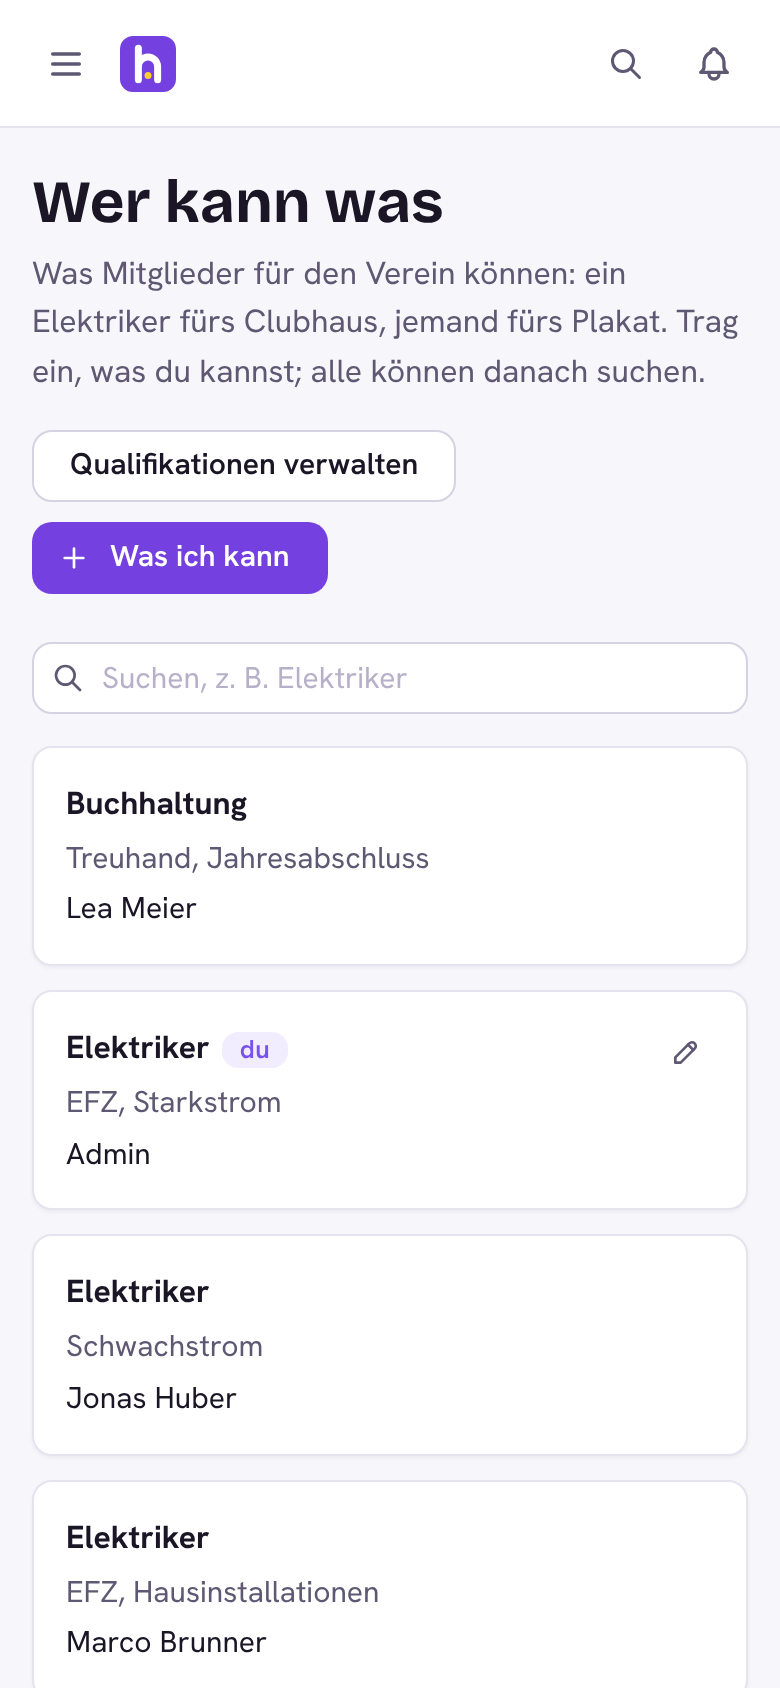
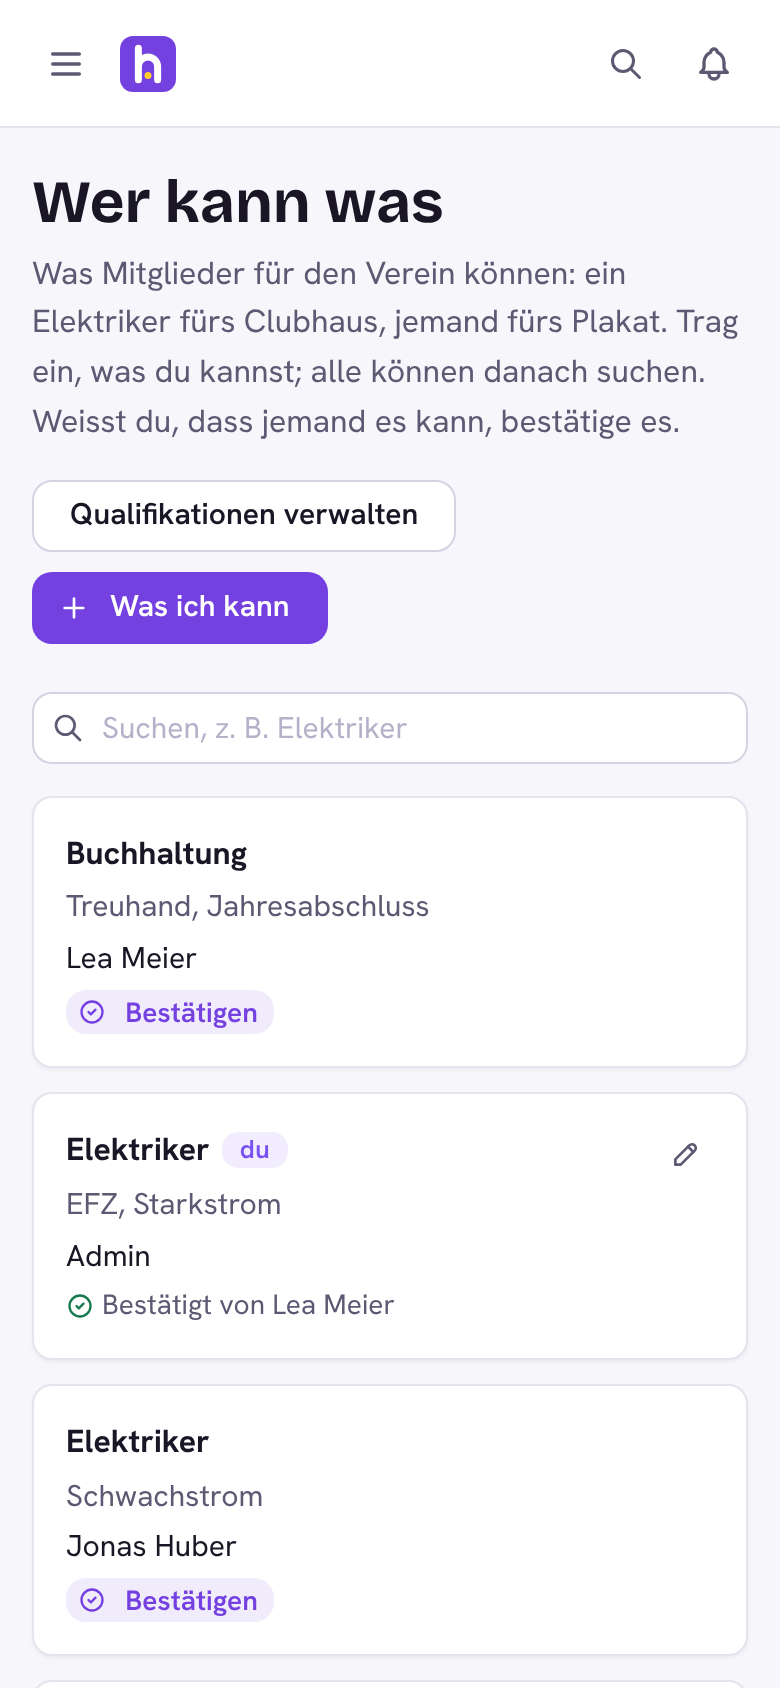
Other members confirm self-service qualifications
Bestätigen on Wer kann was: another member vouches for an entry, the
holder is notified, the card shows who confirmed it. Changing the note
clears it; the confirmer or a manager takes it back.

Claude-Session: https://claude.ai/code/session_01Mn3pymX81wmZPTtSsV7GuV

diff --git a/frontend/src/CanDoScreen.tsx b/frontend/src/CanDoScreen.tsx
@@ -2,16 +2,32 @@ import { useState, type FormEvent } from 'react'
 import { useQuery, useQueryClient } from '@tanstack/react-query'
 import { ActionIcon, Autocomplete, Badge, Button, Group, Paper, SimpleGrid, Stack, Text, TextInput, Textarea } from '@mantine/core'
 import { useDebouncedValue } from '@mantine/hooks'
-import { IconPencil, IconPlus, IconSearch, IconTools } from '@tabler/icons-react'
+import { IconCircleCheck, IconPencil, IconPlus, IconSearch, IconTools } from '@tabler/icons-react'
 import { EmptyState, ErrorBanner, Field, LoadingSpinner, Modal, PageHead, useAuth, useNav, useT, useToast } from '@hubra/plugin-sdk'
-import { addMine, deleteMine, listCanDo, listKinds, updateMine, type CanDo } from './api'
+import { addMine, confirmCanDo, deleteMine, listCanDo, listKinds, unconfirmCanDo, updateMine, type CanDo } from './api'
 
 const KEY = ['guides', 'canDo']
 
 /** Who in the club can do what: the self-service qualifications. */
 export function CanDoScreen() {
   const { t } = useT()
-  const { hasPermission } = useAuth()
+  const { hasPermission, currentUser } = useAuth()
+  const me = currentUser ? Number(currentUser.id) : null
+  const manager = hasPermission('guides.qualifications.manage')
+  const qc = useQueryClient()
+  const { notify } = useToast()
+  const [busyId, setBusyId] = useState<number | null>(null)
+  const vouch = async (c: CanDo, on: boolean) => {
+    setBusyId(c.id)
+    try {
+      await (on ? confirmCanDo(c.id) : unconfirmCanDo(c.id))
+      qc.invalidateQueries({ queryKey: ['guides'] })
+    } catch (err) {
+      notify('error', err instanceof Error ? err.message : String(err))
+    } finally {
+      setBusyId(null)
+    }
+  }
   const { go } = useNav()
   const [q, setQ] = useState('')
   const [search] = useDebouncedValue(q.trim(), 250)
@@ -25,7 +41,7 @@ export function CanDoScreen() {
         desc={t('qualifications.canDo.desc')}
         actions={
           <Group gap="xs">
-            {hasPermission('guides.qualifications.manage') && (
+            {manager && (
               <Button variant="default" onClick={() => go('/app/inventory/qualifications')}>
                 {t('qualifications.canDo.manage')}
               </Button>
@@ -76,6 +92,32 @@ export function CanDoScreen() {
                     </Text>
                   )}
                   <Text size="sm">{c.memberName}</Text>
+                  {c.confirmedBy ? (
+                    <Group gap={4} wrap="wrap">
+                      <IconCircleCheck size={14} color="var(--mantine-color-green-6)" style={{ flexShrink: 0 }} />
+                      <Text size="xs" c="dimmed">
+                        {t('qualifications.canDo.confirmedBy', { name: c.confirmedBy })}
+                      </Text>
+                      {(c.confirmedById === me || (manager && !c.mine)) && (
+                        <Button size="compact-xs" variant="subtle" color="gray" loading={busyId === c.id} onClick={() => vouch(c, false)}>
+                          {t('qualifications.canDo.unconfirm')}
+                        </Button>
+                      )}
+                    </Group>
+                  ) : (
+                    !c.mine && (
+                      <Button
+                        size="compact-xs"
+                        variant="light"
+                        leftSection={<IconCircleCheck size={14} />}
+                        loading={busyId === c.id}
+                        onClick={() => vouch(c, true)}
+                        style={{ alignSelf: 'flex-start' }}
+                      >
+                        {t('qualifications.canDo.confirm')}
+                      </Button>
+                    )
+                  )}
                 </Stack>
                 {c.mine && (
                   <ActionIcon variant="subtle" onClick={() => setEditing(c)} aria-label={t('qualifications.canDo.edit')}>

diff --git a/frontend/src/api.ts b/frontend/src/api.ts
@@ -50,6 +50,10 @@ export interface Qualification {
   expiresOn: string | null
   note: string | null
   state: QualificationState
+  /** Self-service: the member who vouched for it. */
+  confirmedBy: string | null
+  confirmedById: number | null
+  confirmedAt: string | null
 }
 
 export interface KindInput {
@@ -93,6 +97,9 @@ export interface CanDo {
   kindName: string
   note: string | null
   mine: boolean
+  confirmedBy: string | null
+  confirmedById: number | null
+  confirmedAt: string | null
 }
 
 export const listCanDo = (q: string) => apiFetch<CanDo[]>(`${Q}/directory?${new URLSearchParams({ q })}`)
@@ -101,3 +108,5 @@ export const addMine = (input: { kindId?: number; name?: string; note: string | 
 export const updateMine = (id: number, note: string | null) =>
   apiFetch<Qualification>(`${Q}/mine/${id}`, { method: 'PATCH', body: JSON.stringify({ note }) })
 export const deleteMine = (id: number) => apiFetch<void>(`${Q}/mine/${id}`, { method: 'DELETE' })
+export const confirmCanDo = (id: number) => apiFetch<Qualification>(`${Q}/${id}/confirm`, { method: 'POST' })
+export const unconfirmCanDo = (id: number) => apiFetch<Qualification>(`${Q}/${id}/confirm`, { method: 'DELETE' })

diff --git a/frontend/src/MyQualificationsCard.tsx b/frontend/src/MyQualificationsCard.tsx
@@ -39,7 +39,9 @@ export function MyQualificationsCard() {
             </Text>
             <Text fz="xs" c="dimmed" truncate>
               {q.selfService
-                ? q.note || t('qualifications.canDo.selfAdded')
+                ? [q.note || t('qualifications.canDo.selfAdded'), q.confirmedBy && t('qualifications.canDo.confirmedBy', { name: q.confirmedBy })]
+                    .filter(Boolean)
+                    .join(' · ')
                 : q.expiresOn
                   ? t('qualifications.until', { date: formatDate(q.expiresOn) })
                   : t('qualifications.noExpiry')}

diff --git a/hubra_guides/qualifications.py b/hubra_guides/qualifications.py
@@ -14,6 +14,8 @@ POST   /qualifications/mine           {kindId | name, note?} add what I can do
 PATCH  /qualifications/mine/<id>      {note}
 DELETE /qualifications/mine/<id>
 GET    /qualifications/directory      ?q=&kindId= who can do what (every member)
+POST   /qualifications/<id>/confirm   another member vouches for a self-service one
+DELETE /qualifications/<id>/confirm   that member, or a manager, takes it back
 
 Self-service kinds (``selfService``) are what members can do: "Elektriker",
 "Grafik". Members add and remove those on themselves, naming a new one adds
@@ -101,6 +103,17 @@ def _out(q: MemberQualification, kind: QualificationKind, name: str | None) -> d
         "expiresOn": q.expires_on.isoformat() if q.expires_on else None,
         "note": q.note,
         "state": state(q, kind, date.today()),
+        **_confirmed(q),
+    }
+
+
+def _confirmed(q: MemberQualification) -> dict:
+    """Who vouched for a self-service entry, and when."""
+    who = db.session.get(Member, q.confirmed_by) if q.confirmed_by else None
+    return {
+        "confirmedBy": who.name if who else None,
+        "confirmedById": q.confirmed_by if who else None,
+        "confirmedAt": q.confirmed_at.isoformat() if who and q.confirmed_at else None,
     }
 
 
@@ -484,9 +497,13 @@ def update_mine(qid: int):
     if err:
         return err
     try:
-        q.note = _note(request.get_json(silent=True) or {})
+        note = _note(request.get_json(silent=True) or {})
     except ValueError as exc:
         return _bad(exc)
+    if note != q.note:
+        # A confirmation vouches for what it said; a new claim needs a new one.
+        q.confirmed_by = q.confirmed_at = None
+    q.note = note
     q.updated_at = _now()
     db.session.commit()
     return jsonify(_out(q, kind, get_current_member().name))
@@ -544,10 +561,78 @@ def directory():
                 "kindName": k.name,
                 "note": q.note,
                 "mine": m.id == me.id,
+                **_confirmed(q),
             }
             for q, k, m in rows
         ]
     )
+
+
+def _self_entry(qid: int):
+    q = db.session.get(MemberQualification, qid)
+    kind = db.session.get(QualificationKind, q.kind_id) if q else None
+    if q is None or not kind.self_service:
+        return None, None, api_error("NOT_FOUND", "No such entry.", 404)
+    return q, kind, None
+
+
+@guides_bp.post("/qualifications/<int:qid>/confirm")
+@require_member
+def confirm(qid: int):
+    """Another member vouches that the holder can do it."""
+    me = get_current_member()
+    q, kind, err = _self_entry(qid)
+    if err:
+        return err
+    if q.member_id == me.id:
+        return api_error("FORBIDDEN", "Someone else has to confirm yours.", 403)
+    holder = db.session.get(Member, q.member_id)
+    if holder is None or holder.archived_at is not None:
+        return api_error("NOT_FOUND", "No such entry.", 404)
+    if q.confirmed_by and q.confirmed_by != me.id:
+        return api_error("DUPLICATE", "Someone has confirmed this already.", 409)
+    if q.confirmed_by is None:
+        from hubra.core.notifications.services import create_notification
+
+        q.confirmed_by, q.confirmed_at = me.id, _now()
+        log_audit(
+            me.id,
+            "guides.qualification.confirm",
+            "MemberQualification",
+            q.id,
+            f"{holder.name}: {kind.name}",
+        )
+        create_notification(
+            holder.id,
+            kind="info",
+            title=f"{me.name} confirmed: {kind.name}",
+            msg="",
+            link="/app/skills",
+        )
+        db.session.commit()
+    return jsonify(_out(q, kind, holder.name))
+
+
+@guides_bp.delete("/qualifications/<int:qid>/confirm")
+@require_member
+def unconfirm(qid: int):
+    """The member who confirmed it, or a manager, takes it back."""
+    from hubra.core.permissions import member_has_permission
+
+    me = get_current_member()
+    q, kind, err = _self_entry(qid)
+    if err:
+        return err
+    if q.confirmed_by != me.id and not member_has_permission(me, MANAGE):
+        return api_error("FORBIDDEN", "Only who confirmed it can take it back.", 403)
+    if q.confirmed_by is not None:
+        log_audit(
+            me.id, "guides.qualification.unconfirm", "MemberQualification", q.id, None
+        )
+    q.confirmed_by = q.confirmed_at = None
+    db.session.commit()
+    holder = db.session.get(Member, q.member_id)
+    return jsonify(_out(q, kind, holder.name if holder else None))
 
 
 # ── Reminders ────────────────────────────────────────────────────────────────

diff --git a/tests/test_qualifications.py b/tests/test_qualifications.py
@@ -314,3 +314,59 @@ def test_self_service_kinds_never_gate_an_item(client, db, club):
     # An item takes Laser: members may not start adding it themselves.
     resp = client.patch(f"{Q}/kinds/{laser['id']}", json={"selfService": True})
     assert resp.status_code == 400
+
+
+def test_another_member_confirms_a_self_service_entry(client, db, club):
+    from hubra.core.models.notification import Notification
+
+    managed = _kind(client)
+    _login(client, "max@test.ch")
+    entry = client.post(f"{Q}/mine", json={"name": "Elektriker", "note": "EFZ"})
+    entry = entry.get_json()
+    assert entry["confirmedBy"] is None
+    # Not one's own.
+    assert client.post(f"{Q}/{entry['id']}/confirm").status_code == 403
+
+    _login(client, "kim@test.ch")
+    got = client.post(f"{Q}/{entry['id']}/confirm")
+    assert got.status_code == 200, got.get_json()
+    assert got.get_json()["confirmedBy"] == "Test Kim"
+    assert client.post(f"{Q}/{entry['id']}/confirm").status_code == 200  # again: same
+    row = client.get(f"{Q}/directory?q=elektr").get_json()[0]
+    assert row["confirmedBy"] == "Test Kim" and row["confirmedById"] == club["kim"]
+    notes = db.session.query(Notification).filter_by(member_id=club["max"]).all()
+    assert any("confirmed" in n.title for n in notes)
+    # Managed qualifications are not confirmed this way.
+    held = client.post(
+        Q,
+        json={
+            "memberId": club["max"],
+            "kindId": managed["id"],
+            "obtainedOn": "2025-01-01",
+        },
+    ).get_json()
+    assert client.post(f"{Q}/{held['id']}/confirm").status_code == 404
+
+    # A new claim needs a new confirmation.
+    _login(client, "max@test.ch")
+    assert (
+        client.patch(f"{Q}/mine/{entry['id']}", json={"note": "EFZ"}).get_json()[
+            "confirmedBy"
+        ]
+        == "Test Kim"
+    )
+    assert (
+        client.patch(f"{Q}/mine/{entry['id']}", json={"note": "Meister"}).get_json()[
+            "confirmedBy"
+        ]
+        is None
+    )
+    # Only the confirmer (or a manager) takes it back.
+    _login(client, "kim@test.ch")
+    client.post(f"{Q}/{entry['id']}/confirm")
+    _login(client, "max@test.ch")
+    assert client.delete(f"{Q}/{entry['id']}/confirm").status_code == 403
+    _login(client, "kim@test.ch")
+    assert (
+        client.delete(f"{Q}/{entry['id']}/confirm").get_json()["confirmedBy"] is None
+    )

diff --git a/migrations/4d7b2f9c1a63_self_added_qualifications.py b/migrations/4d7b2f9c1a63_self_added_qualifications.py
@@ -1,4 +1,5 @@
-"""qualification_kinds.self_service; copy Community's "can do" entries
+"""qualification_kinds.self_service, member_qualifications.confirmed_by/_at;
+copy Community's "can do" entries
 
 Members may add a self-service qualification to themselves ("Elektriker",
 "Grafik"), and every member can search who has one. What members can do
@@ -37,6 +38,21 @@ def upgrade():
                     nullable=False,
                     server_default=sa.false(),
                 )
+            )
+    have = columns("member_qualifications")
+    with op.batch_alter_table("member_qualifications", schema=None) as batch_op:
+        if "confirmed_by" not in have:
+            batch_op.add_column(sa.Column("confirmed_by", sa.Integer(), nullable=True))
+            batch_op.create_foreign_key(
+                "fk_member_qualifications_confirmed_by",
+                "members",
+                ["confirmed_by"],
+                ["id"],
+                ondelete="SET NULL",
+            )
+        if "confirmed_at" not in have:
+            batch_op.add_column(
+                sa.Column("confirmed_at", sa.DateTime(timezone=True), nullable=True)
             )
     _copy_community_skills()
 
@@ -118,5 +134,11 @@ def _day(value) -> date | None:
 
 
 def downgrade():
+    with op.batch_alter_table("member_qualifications", schema=None) as batch_op:
+        batch_op.drop_constraint(
+            "fk_member_qualifications_confirmed_by", type_="foreignkey"
+        )
+        batch_op.drop_column("confirmed_at")
+        batch_op.drop_column("confirmed_by")
     with op.batch_alter_table("qualification_kinds", schema=None) as batch_op:
         batch_op.drop_column("self_service")

diff --git a/hubra_guides/models.py b/hubra_guides/models.py
@@ -95,6 +95,14 @@ class MemberQualification(db.Model):
     created_by: Mapped[int | None] = mapped_column(
         db.Integer, ForeignKey("members.id", ondelete="SET NULL"), nullable=True
     )
+    # Self-service entries: another member vouches for it ("Bestätigt von").
+    # Cleared when the holder changes the note.
+    confirmed_by: Mapped[int | None] = mapped_column(
+        db.Integer, ForeignKey("members.id", ondelete="SET NULL"), nullable=True
+    )
+    confirmed_at: Mapped[datetime | None] = mapped_column(
+        DateTime(timezone=True), nullable=True
+    )
     updated_at: Mapped[datetime] = mapped_column(
         DateTime(timezone=True),
         default=lambda: datetime.now(timezone.utc),

diff --git a/CHANGELOG.md b/CHANGELOG.md
@@ -8,8 +8,13 @@
   or on their account page; a new name adds a new self-service type. The
   club's own types stay with the managers. A self-service type cannot be what
   an item takes.
-- New API: `POST/PATCH/DELETE /qualifications/mine`, `GET /qualifications/directory`.
-- Column `qualification_kinds.self_service`. The migration copies the
+- Another member can confirm ("Bestätigen") someone's self-service entry;
+  the card then shows "Bestätigt von …" and the holder gets a notification.
+  Changing the note clears it; the confirmer or a manager can take it back.
+- New API: `POST/PATCH/DELETE /qualifications/mine`, `GET /qualifications/directory`,
+  `POST/DELETE /qualifications/<id>/confirm`.
+- Columns `qualification_kinds.self_service`,
+  `member_qualifications.confirmed_by`/`confirmed_at`. The migration copies the
   Community plugin's "Kann" entries (`community_skills`, kind `skill`) into
   self-service qualifications, if that table exists.
 

diff --git a/README.md b/README.md
@@ -30,7 +30,9 @@ outside the club's own courses) are qualifications too: types switched to
 lists who has which, with a search; members add their own there or on their
 account page, picking a type or typing a new one, and change or remove only
 their own. Managers still see and edit everything under *Qualifications*.
-A self-service type can never be what an item takes, since nobody checked it.
+Any other member can confirm an entry ("Bestätigen"); it then shows who
+vouched for it, and changing the note clears that. A self-service type can
+never be what an item takes, since no manager checked it.
 
 This replaces the "Kann" entries of the Community plugin's skills directory:
 updating to 1.5.0 copies them here once (when that table exists; Guides does
